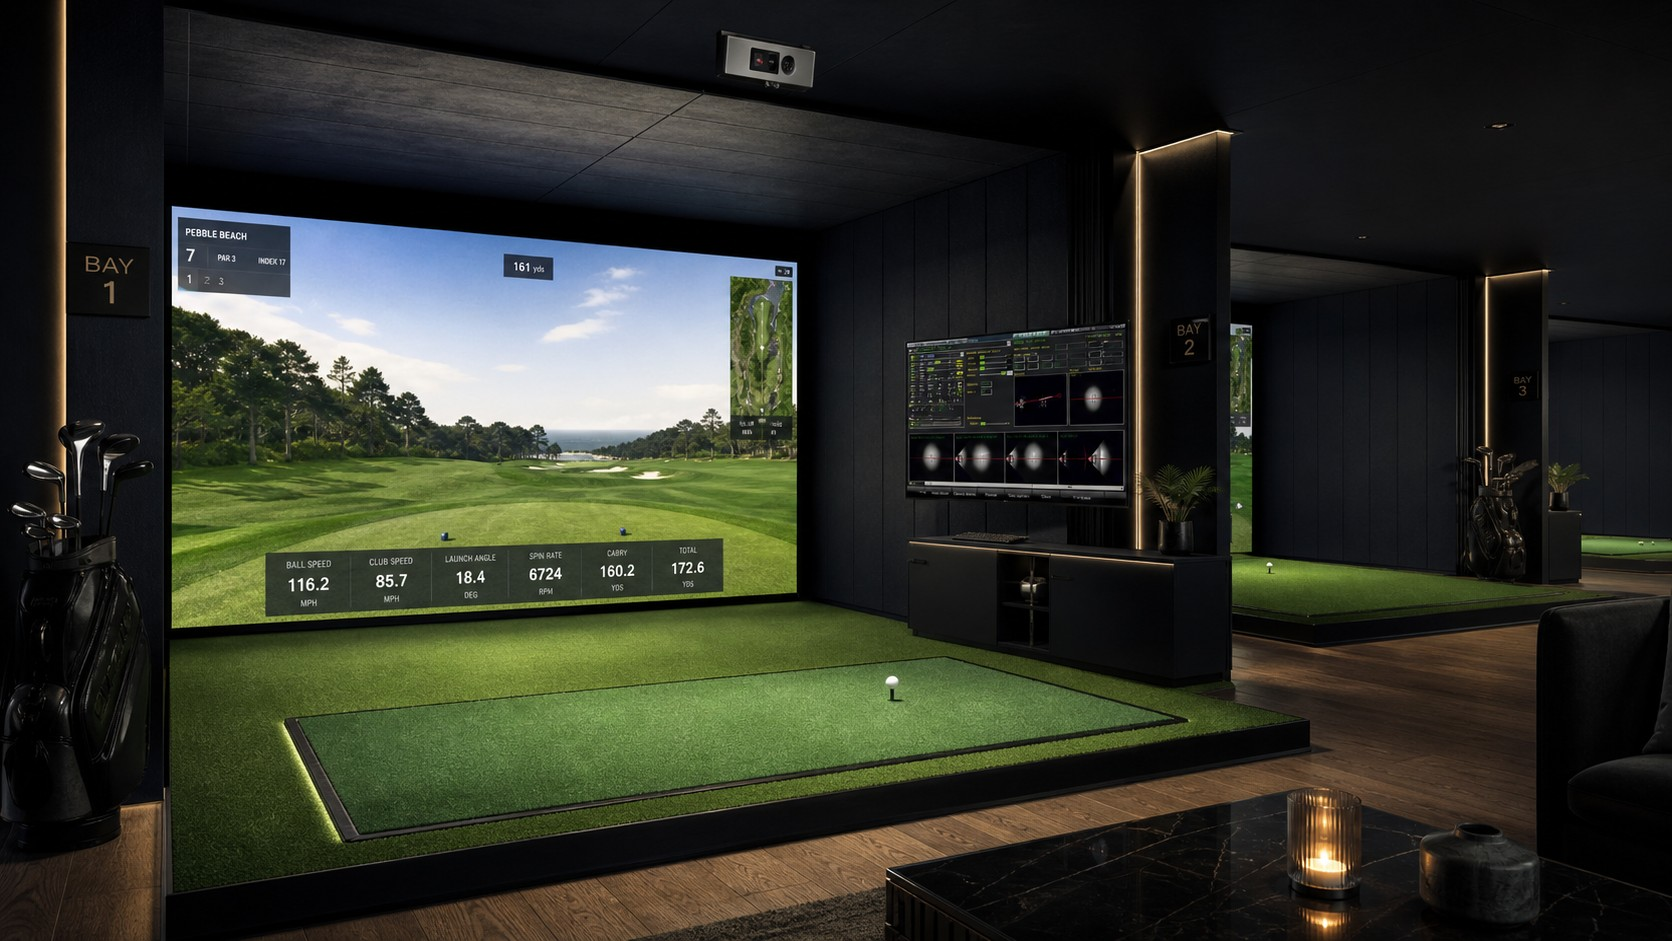
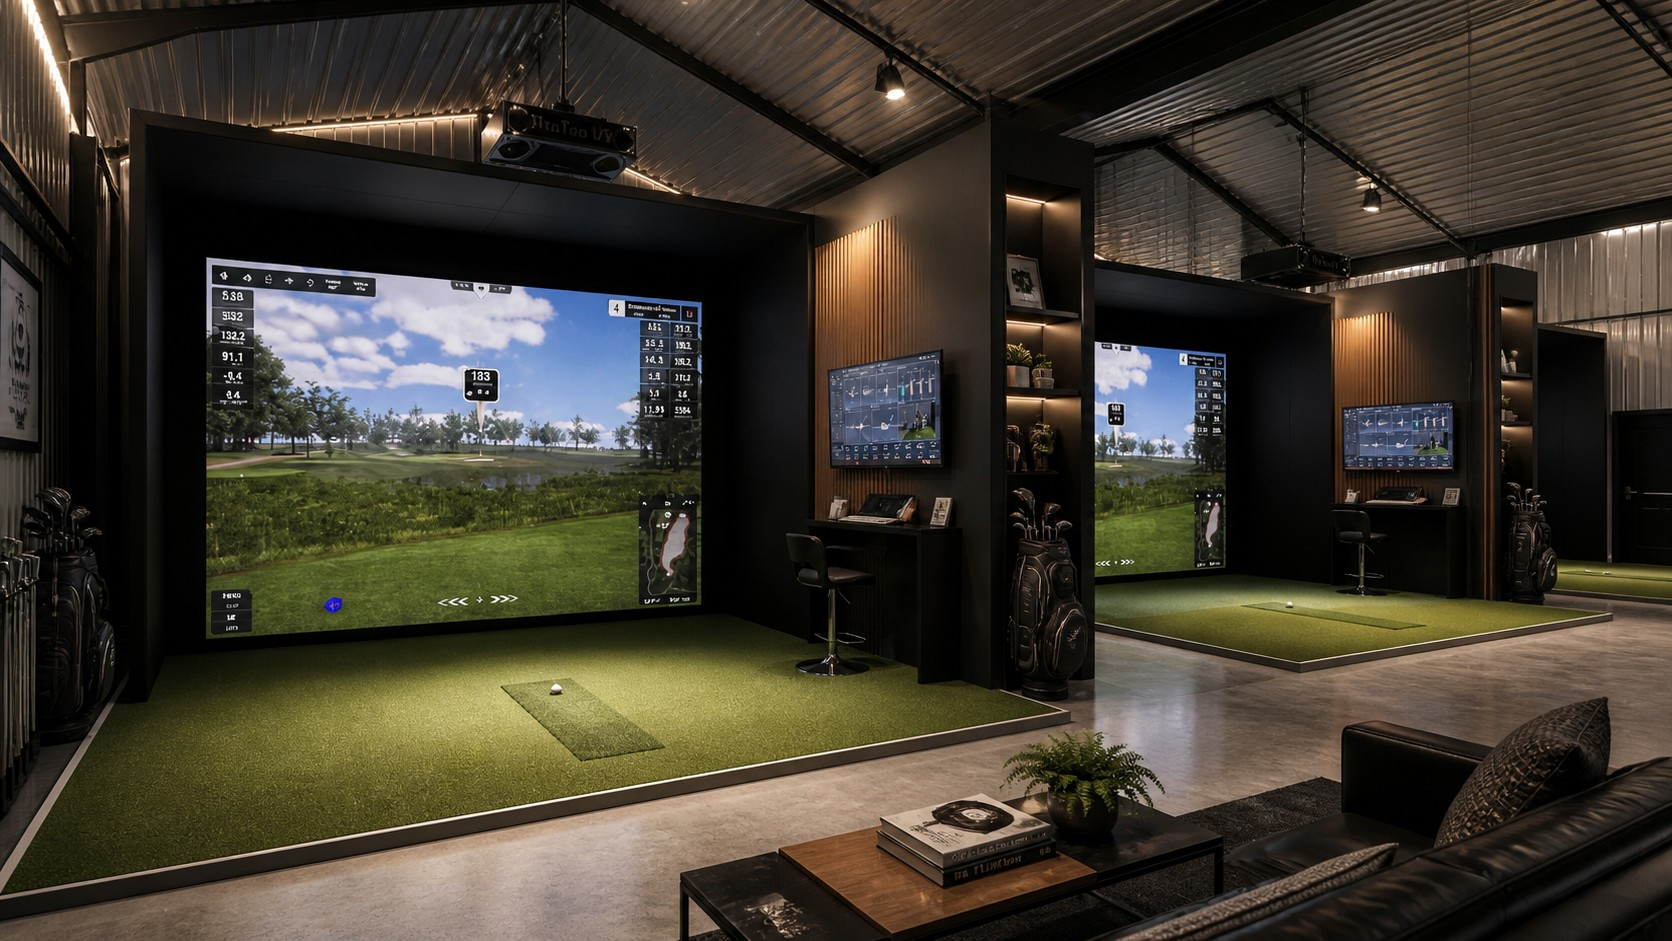
Update [image name]

diff --git a/about.html b/about.html
@@ -211,10 +211,6 @@
 </section>
 
 
-    <!-- CUSTOM QUOTE STRIP -->
-    <div style="background:rgba(93,168,58,0.07);border-top:1px solid rgba(93,168,58,0.15);padding:14px 24px;text-align:center;">
-      <p style="font-size:13px;color:rgba(255,255,255,0.55);max-width:760px;margin:0 auto;line-height:1.7;">Outside Noble, LaGrange, Steuben, or DeKalb County? Need a weekday, a Monday event, or a non-standard time? <a href="contact.html?inquiry=custom" style="color:var(--green-lt);font-weight:600;">Reach out</a> — we're happy to discuss availability and put together a custom quote.</p>
-    </div>
 <footer class="site-footer">
   <div class="footer-grid">
     <div class="footer-brand">

diff --git a/contact.html b/contact.html
@@ -209,10 +209,6 @@
 </section>
 
 
-    <!-- CUSTOM QUOTE STRIP -->
-    <div style="background:rgba(93,168,58,0.07);border-top:1px solid rgba(93,168,58,0.15);padding:14px 24px;text-align:center;">
-      <p style="font-size:13px;color:rgba(255,255,255,0.55);max-width:760px;margin:0 auto;line-height:1.7;">Outside Noble, LaGrange, Steuben, or DeKalb County? Need a weekday, a Monday event, or a non-standard time? <a href="contact.html?inquiry=custom" style="color:var(--green-lt);font-weight:600;">Reach out</a> — we're happy to discuss availability and put together a custom quote.</p>
-    </div>
 <footer class="site-footer">
   <div class="footer-grid">
     <div class="footer-brand">

diff --git a/memberships.html b/memberships.html
@@ -309,10 +309,6 @@
 </section>
 
 
-    <!-- CUSTOM QUOTE STRIP -->
-    <div style="background:rgba(93,168,58,0.07);border-top:1px solid rgba(93,168,58,0.15);padding:14px 24px;text-align:center;">
-      <p style="font-size:13px;color:rgba(255,255,255,0.55);max-width:760px;margin:0 auto;line-height:1.7;">Outside Noble, LaGrange, Steuben, or DeKalb County? Need a weekday, a Monday event, or a non-standard time? <a href="contact.html?inquiry=custom" style="color:var(--green-lt);font-weight:600;">Reach out</a> — we're happy to discuss availability and put together a custom quote.</p>
-    </div>
 <footer class="site-footer">
   <div class="footer-grid">
     <div class="footer-brand">

diff --git a/on-tour.html b/on-tour.html
@@ -263,10 +263,6 @@
 </section>
 
 
-    <!-- CUSTOM QUOTE STRIP -->
-    <div style="background:rgba(93,168,58,0.07);border-top:1px solid rgba(93,168,58,0.15);padding:14px 24px;text-align:center;">
-      <p style="font-size:13px;color:rgba(255,255,255,0.55);max-width:760px;margin:0 auto;line-height:1.7;">Outside Noble, LaGrange, Steuben, or DeKalb County? Need a weekday, a Monday event, or a non-standard time? <a href="contact.html?inquiry=custom" style="color:var(--green-lt);font-weight:600;">Reach out</a> — we're happy to discuss availability and put together a custom quote.</p>
-    </div>
 <footer class="site-footer">
   <div class="footer-grid">
     <div class="footer-brand">

diff --git a/studio.html b/studio.html
@@ -328,10 +328,6 @@
 </section>
 
 
-    <!-- CUSTOM QUOTE STRIP -->
-    <div style="background:rgba(93,168,58,0.07);border-top:1px solid rgba(93,168,58,0.15);padding:14px 24px;text-align:center;">
-      <p style="font-size:13px;color:rgba(255,255,255,0.55);max-width:760px;margin:0 auto;line-height:1.7;">Outside Noble, LaGrange, Steuben, or DeKalb County? Need a weekday, a Monday event, or a non-standard time? <a href="contact.html?inquiry=custom" style="color:var(--green-lt);font-weight:600;">Reach out</a> — we're happy to discuss availability and put together a custom quote.</p>
-    </div>
 <footer class="site-footer">
   <div class="footer-grid">
     <div class="footer-brand">